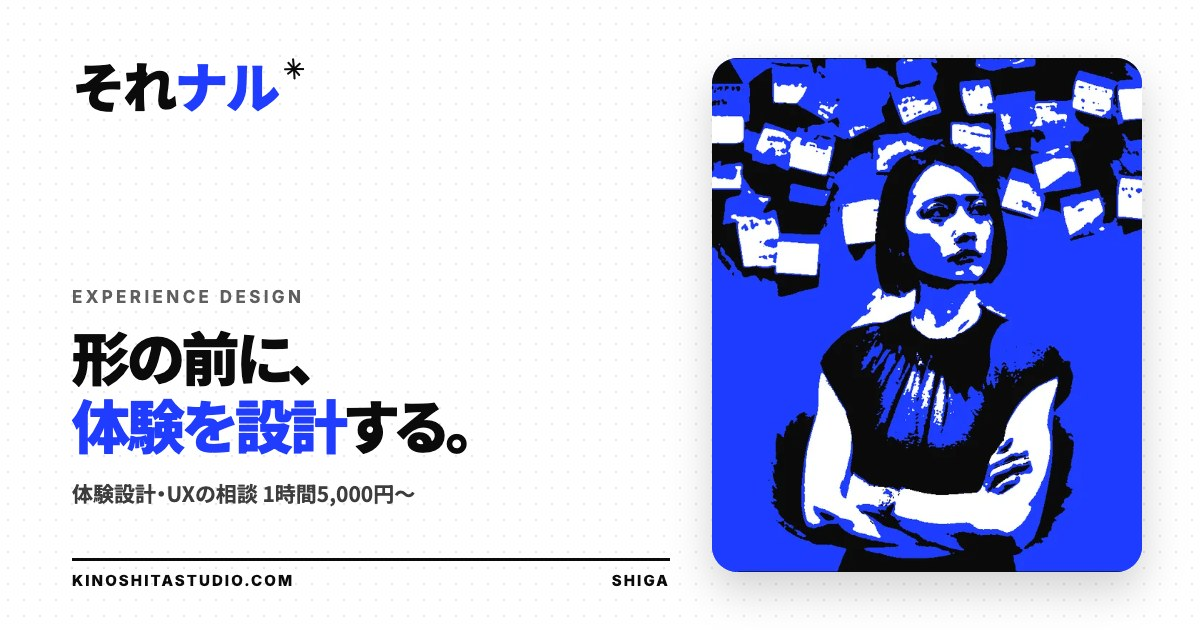
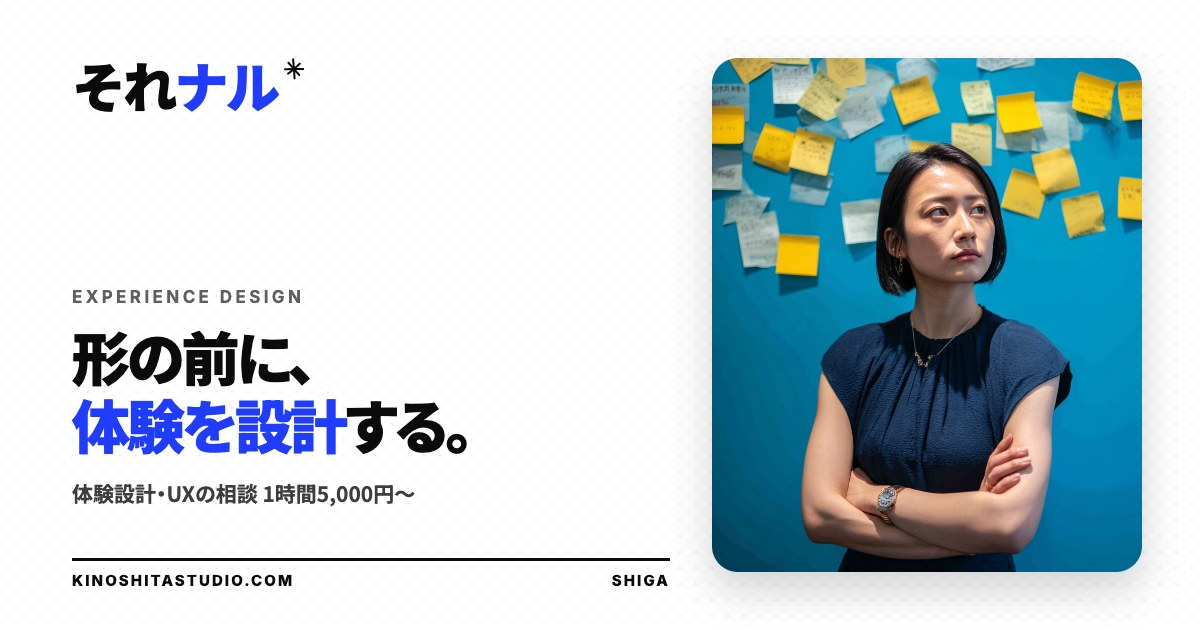
og: use the pictures in their own colors, not shifted to blue
kinoshita asked to keep the original colors for the share images. the
tile prints on the page stay blue. meeting shows all four, on a blurred
backdrop of itself. tools moved to iCloud/道具/それナル/.

Claude-Session: https://claude.ai/code/session_01T22wKR2yvNL7pqGT1C5yET

Changed region(s): [[0.5858, 0.0905, 0.9558, 0.9349]]

diff --git a/style.css b/style.css
@@ -713,7 +713,7 @@ section.dark .slots em{ color:var(--dark-sub) }
 section.dark .slots-why{ color:var(--dark-sub) }
 
 /* ═══ 2026-10-05 タイルに版画風のイラスト（黒・青・白の3色）═══
-   元＝Midjourneyの写真 → 明るさのむらを消して3段に分け、輪郭を黒で足した（~/Desktop/道具/それナル_版画にする.py）
+   元＝Midjourneyの写真 → 明るさのむらを消して3段に分け、輪郭を黒で足した（iCloud/道具/それナル/それナル_版画にする.py）
    大きな字は残すが、イラストの上で白抜きの輪郭にして主役をイラストに譲る */
 .tile.pic{ background:var(--accent) }
 .tile.pic::after{ content:''; position:absolute; inset:0; background:linear-gradient(180deg,rgba(0,0,0,.5) 0%,transparent 22%,transparent 45%,rgba(0,0,0,.85) 100%); display:block }
